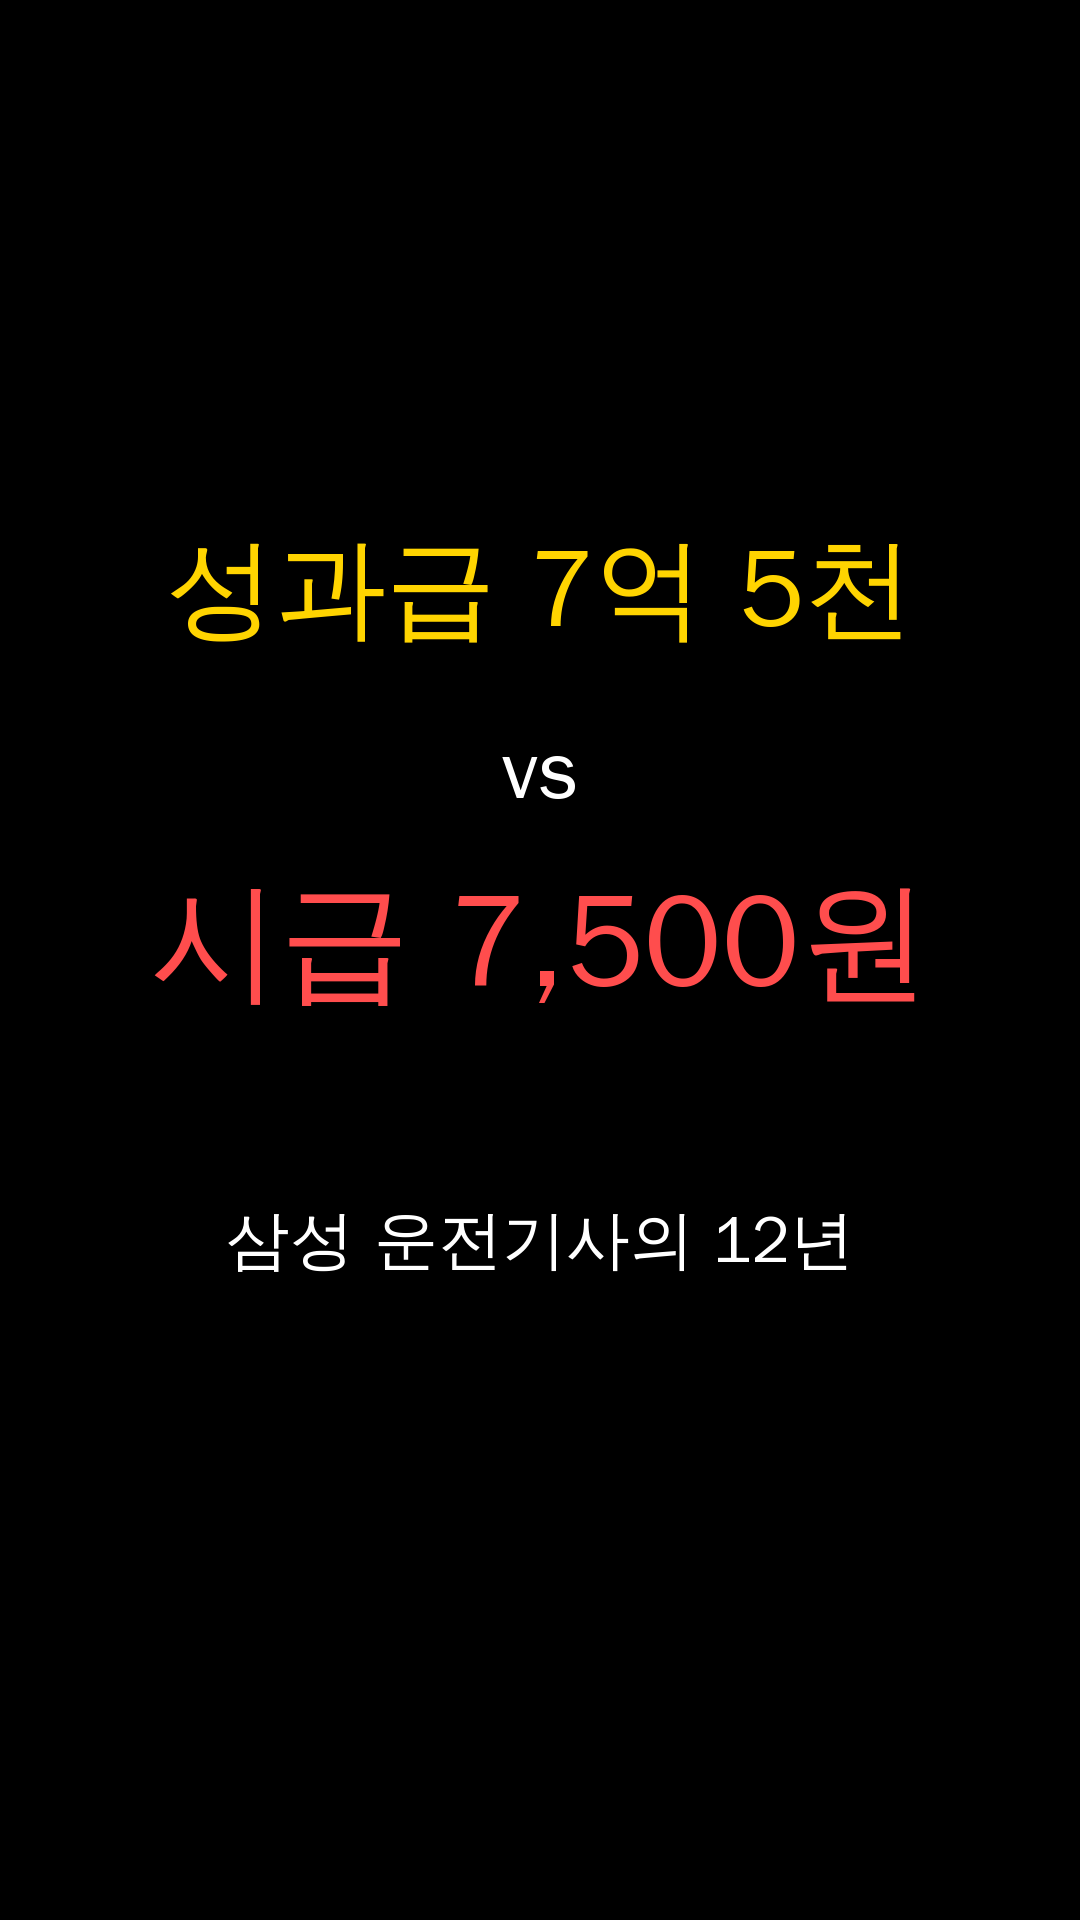
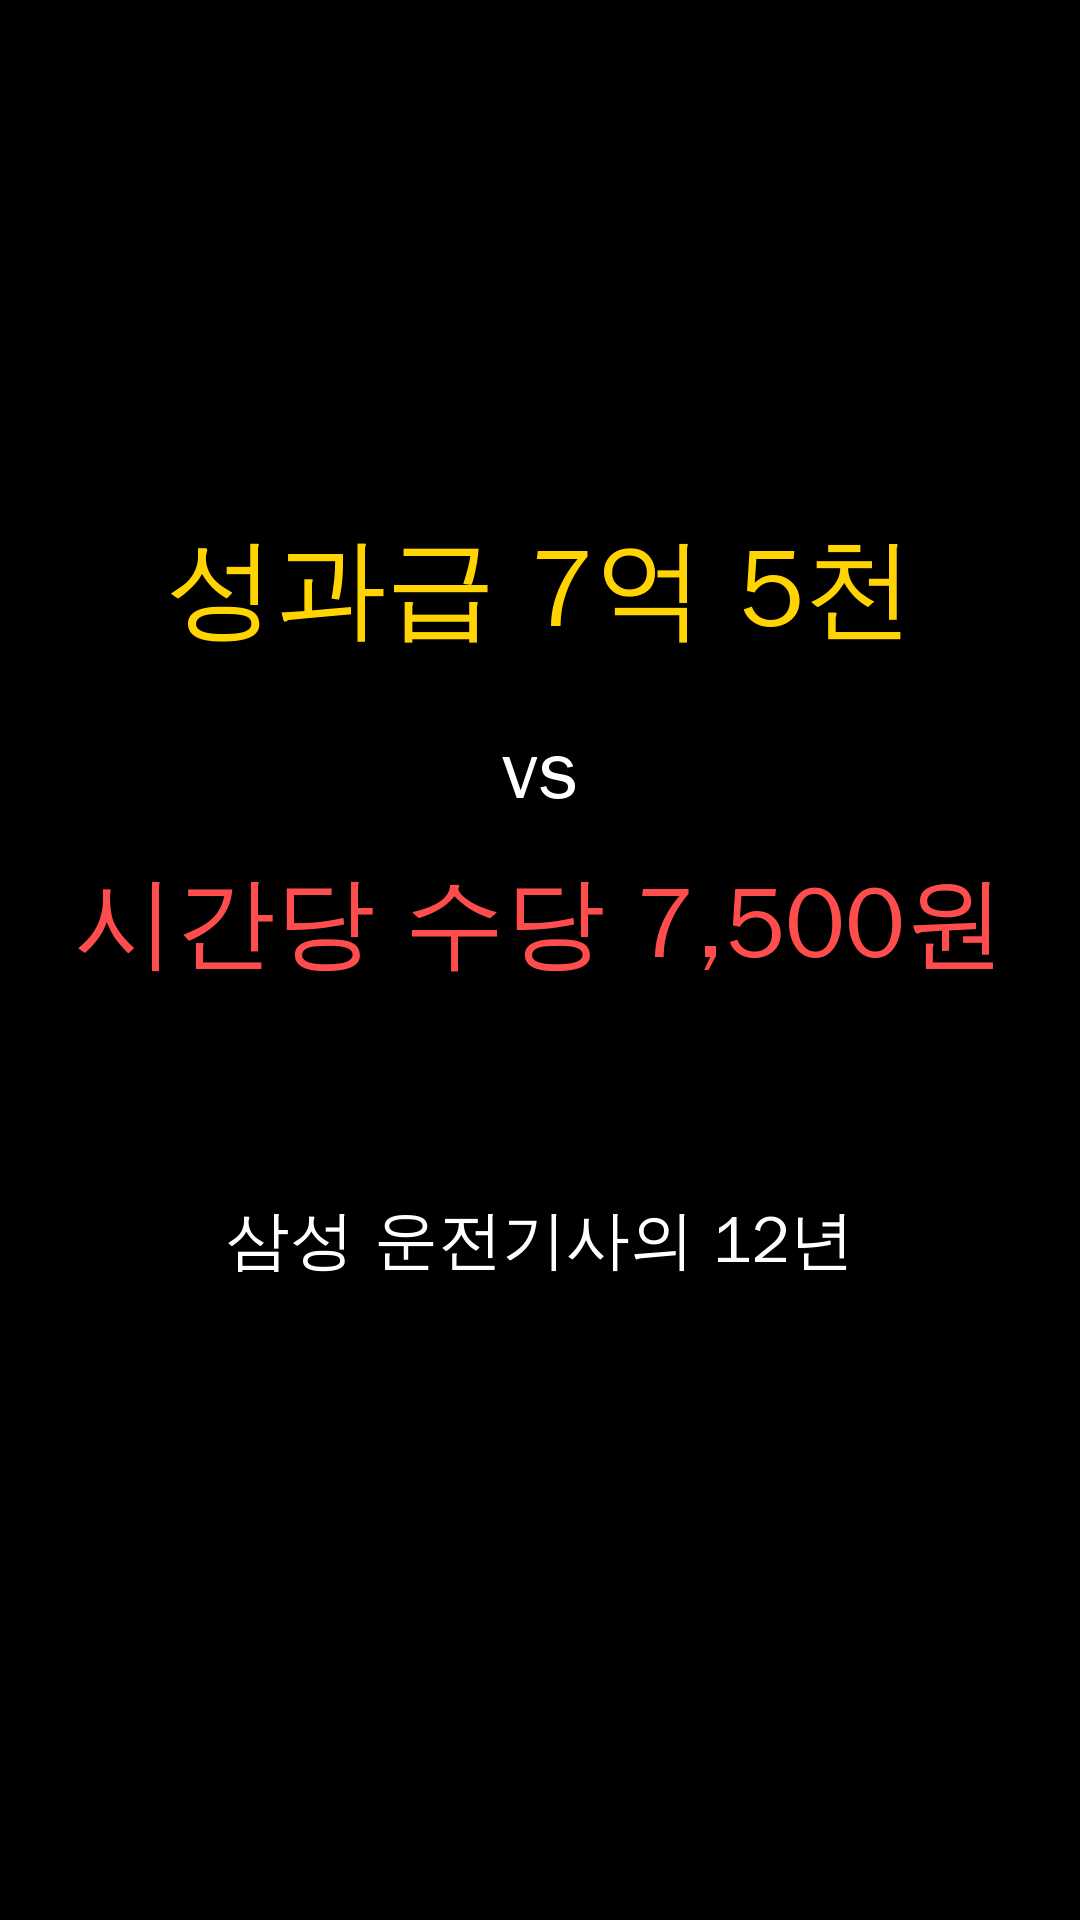
Correct 7,500 won to hourly allowance wording
Claude-Session: https://claude.ai/code/session_01CFXUhAuDHCgHhrBQUzyr2J

Changed region(s): [[0.0611, 0.4375, 0.9167, 0.5312]]

diff --git a/samsung_driver_shorts_script.md b/samsung_driver_shorts_script.md
@@ -1,8 +1,8 @@
 # 삼성 임원 운전기사 쇼츠 (약 45초) · 자막/음성 대본
 
-컨셉: 1인칭 실화 증언. 담담한 톤, 과장 없이 사실 나열 → 마지막에 대비(성과급 7억 5천 vs 시급 7,500원)로 마무리.
+컨셉: 1인칭 실화 증언. 담담한 톤, 과장 없이 사실 나열 → 마지막에 대비(성과급 7억 5천 vs 시간당 수당 7,500원)로 마무리.
 제목 후보
-- 삼성 임원 기사님이 시급 7,500원 올려달라고 한 이유
+- 삼성 임원 기사님이 시간당 수당 7,500원 올려달라고 한 이유
 - 성과급 7억 5천 뉴스 날, 삼성 밑바닥은 이랬습니다
 - 정규직 됐는데 월급은 그대로? 삼성 운전기사의 12년
 
@@ -15,8 +15,8 @@
 | 20~26초 | 2018.11 정규직 전환 | 2018년 11월, 정규직이 됐습니다. 이제 성과급도 복지도 제대로 받겠구나 했습니다. | 밝아졌다가 곧 어두워지는 컷 |
 | 26~33초 | 급여 = 파견 때 그대로 / 자사 제품 구매 3년 뒤 / 프로라 부르지만 여전히 "기사" | 현실은 파견 때 급여 그대로였습니다. 자사 제품 구매는 3년 뒤에야 가능했고, 호칭은 프로였지만 여전히 기사라고 불렸습니다. | 항목 체크리스트 자막 |
 | 33~39초 | 주말 15~17시간 근무 → 수당은 12시간만 | 주말에 열다섯 시간, 열일곱 시간을 일해도 수당은 열두 시간만 나왔습니다. 항의했지만 답은 없었습니다. | 숫자 비교 인포그래픽 |
-| 39~44초 | 시급 7,500원 인상 요구 → 거절 | 저는 시간당 7,500원만 올려달라고 요구했지만, 번번이 거절당했습니다. 그래서 노조에 가입했고, 소송을 시작했습니다. | 7,500원 크게 강조 |
-| 44~50초 | 성과급 7억 5천 vs 시급 7,500원 | 삼성 성과급 7억 5천만 원이 뉴스에 나오던 날, 저는 밑바닥에서 시급 7,500원을 올려달라고 외치고 있었습니다. | 두 숫자 좌우 대비 |
+| 39~44초 | 시간당 수당 7,500원 인상 요구 → 거절 | 저는 이미 받던 시간당 수당 7,500원을 올려달라고 요구했지만, 번번이 거절당했습니다. 그래서 노조에 가입했고, 소송을 시작했습니다. | 7,500원 크게 강조 |
+| 44~50초 | 성과급 7억 5천 vs 시간당 수당 7,500원 | 삼성 성과급 7억 5천만 원이 뉴스에 나오던 날, 저는 밑바닥에서 이미 받던 시간당 수당 7,500원을 올려달라고 외치고 있었습니다. | 두 숫자 좌우 대비 |
 | 50~55초 | 이게 맞나요? 구독 · 댓글로 의견 남겨주세요 | 여러분은 어떻게 생각하시나요? 댓글로 남겨주세요. | 마지막 CTA |
 
 ## 제작 메모
@@ -25,4 +25,4 @@
 - 회사명·임원·인사팀 담당자 실명, 임원 가정일 관련 구체 사례(이름·장소)는 넣지 않기 → 명예훼손 분쟁 방지.
 - "성과급 7억 5천"은 언론에 보도된 금액을 인용하는 것이므로 화면에 출처(기사 제목/날짜) 표기 권장.
 - 수당·근로시간 수치는 급여명세서·근무기록 캡처로 증빙 가능한 것만 사용.
-- 썸네일 안: "시급 7,500원 vs 성과급 7억 5천" 큰 글씨 대비 (9:16).
+- 썸네일 안: "성과급 7억 5천 vs 시간당 수당 7,500원" 큰 글씨 대비 (9:16).
